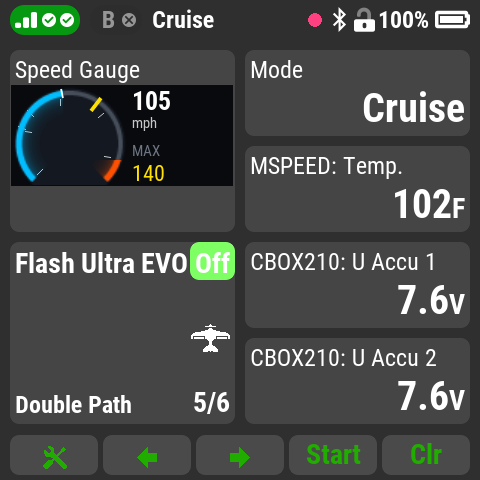
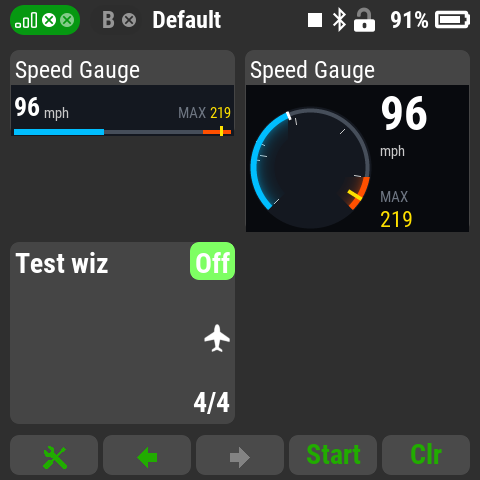
Speed Gauge: new screenshots from the native build (full screen, single and double)
Full screen at 162 mph with air density on (Screen016; the test build's CPU
digits in the top-left corner filled with the dial background, which is what
the release build draws there) and the single and double windows at 96 mph
(Screen011). The README and description pages mention native drawing on the II.

diff --git a/docs/apps/speed-gauge.html b/docs/apps/speed-gauge.html
@@ -27,9 +27,8 @@
             <li>Works with a pitot airspeed sensor (e.g. JETI MSpeed) or GPS
             speed.</li>
         </ul>
-        <p>Double and single size on the main screen:</p>
-        <img src="img/speed-gauge-double.png" alt="Speed Gauge double size" width="480">
-        <img src="img/speed-gauge-single.png" alt="Speed Gauge single size" width="480">
+        <p>Single and double size on the main screen:</p>
+        <img src="img/speed-gauge-double.png" alt="Speed Gauge single and double size" width="480">
         <p><b>Installing takes a while:</b> Speed Gauge brings its own voice,
         about 550 files (24 MB), mostly short audio clips, and copying them
         to the transmitter is slow. Let JETI Studio finish before
@@ -53,7 +52,7 @@
             a page in <i>Timers/Sensors - Displayed telemetry</i>.</li>
         </ol>
         <p>Version: <b>0.4.0</b></p>
-        <p>Compatibility: <b>DC/DS-24II</b> (firmware 6.x) and the original <b>DC/DS-24</b> (tested with firmware 5.08)</p>
+        <p>Compatibility: <b>DC/DS-24II</b> (firmware 6.x; drawn in the screen's own pixels, so the full-screen dial uses most of the screen) and the original <b>DC/DS-24</b> (tested with firmware 5.08)</p>
         <p>Based on <b>DFM Speed Announcer</b> by DFM (Dave McQueeney), MIT
         license. Voice: Piper text-to-speech with the "Amy" voice by Mycroft /
         Rhasspy; the voice files are licensed CC BY-SA 4.0. Speed Gauge: MIT

diff --git a/README.md b/README.md
@@ -17,11 +17,10 @@ spec-driven workflow (GitHub Spec Kit + Claude Code) in VS Code.
 
 Taken on a DS-24 II transmitter.
 
-**Speed Gauge:** full screen at 121 mph, double size, single size
+**Speed Gauge:** full screen at 162 mph, single and double size
 
-<img src="docs/apps/img/speed-gauge.png" width="200" alt="Speed Gauge full screen: dial at 121 mph, max 140, with stall, overspeed, air density and temperature rows">
-<img src="docs/apps/img/speed-gauge-double.png" width="200" alt="Speed Gauge double-size dial at 105 mph on the main screen">
-<img src="docs/apps/img/speed-gauge-single.png" width="200" alt="Speed Gauge single-size speed bar at 98 mph on the main screen">
+<img src="docs/apps/img/speed-gauge.png" width="200" alt="Speed Gauge full screen: dial at 162 mph, max 160, with stall, overspeed, air density, elevation, temperature and raw speed rows">
+<img src="docs/apps/img/speed-gauge-double.png" width="200" alt="Speed Gauge single-size speed bar and double-size dial at 96 mph, max 219, on the main screen">
 
 **Flameout Alarm:** armed at 60,000 RPM, flameout alarm, disarmed
 
@@ -140,8 +139,10 @@ The gauge:
 - The dial's arc shows the current speed (overspeed color past the limit);
   a yellow marker stays at the session max. The colors can be changed.
 - The gauge runs on the DS-24 II / DC-24 II and the original DS-24 /
-  DC-24. On other transmitters the callouts and warnings work, and the
-  window shows a notice instead.
+  DC-24. On the II it draws in the screen's own pixels (since 0.5.0), so
+  the full-screen dial uses most of the screen and every window is sharp
+  and fills its tile. On other transmitters the callouts and warnings work,
+  and the window shows a notice instead.
 
 **Air density correction** (optional, airspeed sensors only). A pitot
 reads low where the air is thin: about 8% at 5,000 ft on a standard day,

diff --git a/docs/apps/speed-gauge.md b/docs/apps/speed-gauge.md
@@ -20,8 +20,7 @@ gauge for the JETI **DC/DS-24**, both the II and the original.
   (double size) or a full-screen dial with stall, overspeed, air density,
   elevation, temperature and raw sensor speed.
 
-  ![Speed Gauge double size, on the main screen](https://raw.githubusercontent.com/Flazzarious/jeti-lua-apps/main/docs/apps/img/speed-gauge-double.png)
-  ![Speed Gauge single size, on the main screen](https://raw.githubusercontent.com/Flazzarious/jeti-lua-apps/main/docs/apps/img/speed-gauge-single.png)
+  ![Speed Gauge single and double size, on the main screen](https://raw.githubusercontent.com/Flazzarious/jeti-lua-apps/main/docs/apps/img/speed-gauge-double.png)
 - **Air density correction** (optional) shows true airspeed from your field
   elevation and the temperature: standard, entered by hand, or read live
   from a sensor such as the MSpeed's. See
@@ -30,8 +29,9 @@ gauge for the JETI **DC/DS-24**, both the II and the original.
 
 ## Requirements
 
-- JETI **DS-24 II / DC-24 II** (firmware 6.x) or the original **DS-24 /
-  DC-24** (tested with firmware 5.08).
+- JETI **DS-24 II / DC-24 II** (firmware 6.x; drawn in the screen's own
+  pixels, so the full-screen dial uses most of the screen) or the original
+  **DS-24 / DC-24** (tested with firmware 5.08).
 - A telemetry sensor that reports speed.
 - **Only one speed announcer.** If you used **DFM Speed Announcer**
   before, remove it in *Applications → User Applications*. With both
